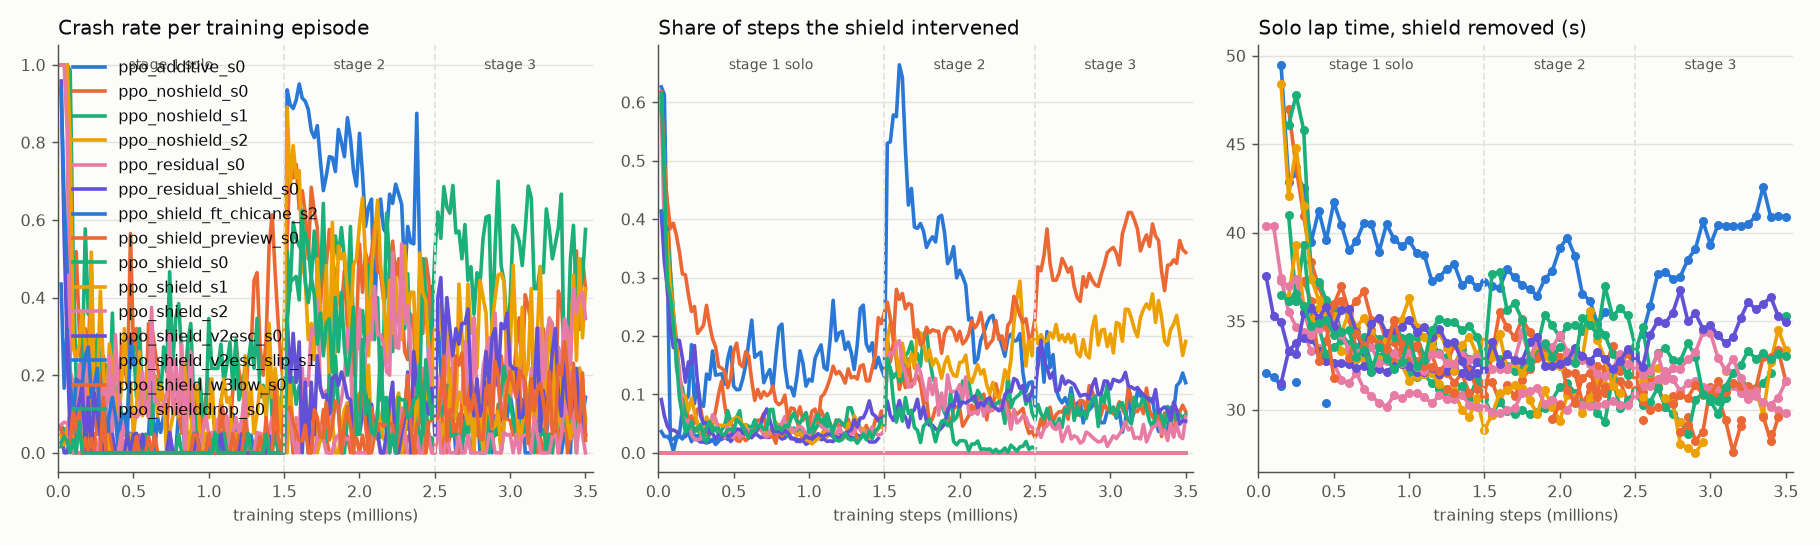
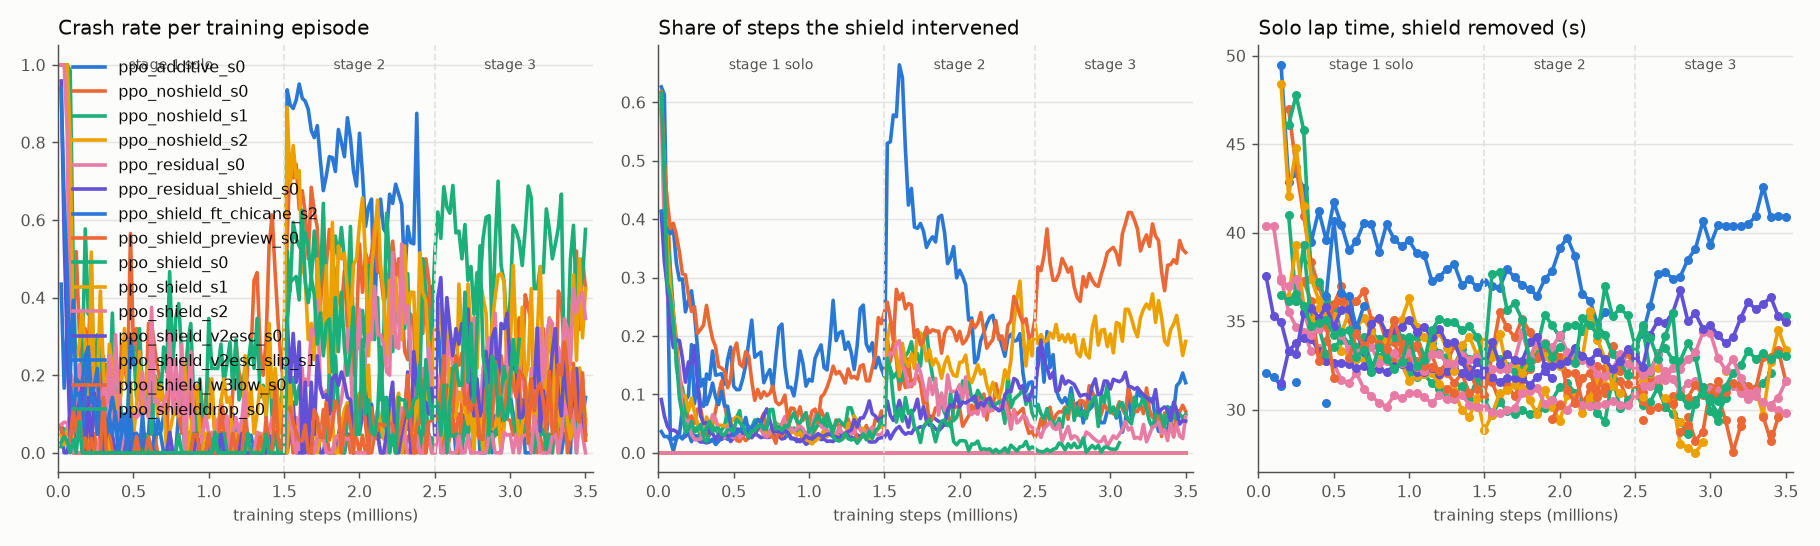
Auto-sync training progress (12:19)

diff --git a/RUNS.md b/RUNS.md
@@ -11,16 +11,16 @@ Auto-generated by `python -m scripts.update_registry` (2026-11-05 12:18). Each r
 | `ppo_noshield_s1` | Ablation (no shield), seed 1 | shield=off seed=1 tyre=saturated | `b3af79a` | finished | 3.50M | 26% / 41% / 52% | 200k | 28.60 / 35.28 | 0% | stage1, stage2, stage3 |
 | `ppo_noshield_s2` | Ablation (no shield), seed 2 | shield=off seed=2 tyre=saturated | `65f27b5` | finished | 3.50M | 19% / 44% / 30% | 150k | 27.56 / 33.36 | 0% | stage1, stage2, stage3 |
 | `ppo_residual_s0` | ResRace/RaceMOP-style: PPO residual on top of PID+APF (APF shapes every command) | shield=off residual seed=0 tyre=saturated | `5549760` | finished | 3.50M | 14% / 22% / 22% | 50k | 29.80 / 29.80 | 0% | stage1, stage2, stage3 |
-| `ppo_residual_shield_s0` | E23: ResRace-style residual policy trained with the final shield (escape, v2 sim) | shield=cond_fb_grip_esc residual seed=0 tyre=saturated_v2 | `c8b4246` | running | 1.94M | 0% / 3% / - | 50k | 31.40 / 31.76 | 5% | stage1 |
+| `ppo_residual_shield_s0` | E23: ResRace-style residual policy trained with the final shield (escape, v2 sim) | shield=cond_fb_grip_esc residual seed=0 tyre=saturated_v2 | `c8b4246` | running | 1.96M | 0% / 3% / - | 50k | 31.40 / 31.76 | 5% | stage1 |
 | `ppo_shield_ft_chicane_s2` | E22: seed-2 shielded policy fine-tuned 500k steps, half the episodes starting before the chicane | shield=cond_fb_grip_esc seed=2 tyre=saturated_v2 | `e1f1aac` | running | 0.50M | 17% | 50k | 30.36 / 30.36 | 3% | - |
 | `ppo_shield_preview_s0` | Timidity test: ours with 10 centerline curvatures (1-20 m ahead) in the observation | shield=cond_fb_grip seed=0 tyre=saturated | `98cfd56` | finished | 3.50M | 2% / 4% / 7% | 250k | 30.00 / 31.60 | 6% | stage1, stage2, stage3 |
 | `ppo_shield_s0` | Ours: PPO + action-conditioned APF shield with fallback (grip reach), all stages | shield=cond_fb_grip seed=0 tyre=saturated | `afc94c8 +dirty` | finished | 3.50M | 1% / 9% / 7% | 200k | 30.48 / 33.04 | 6% | stage1, stage2, stage3 |
 | `ppo_shield_s1` | Ours, seed 1 | shield=cond_fb_grip seed=1 tyre=saturated | `0152028` | finished | 3.50M | 1% / 9% / 11% | 200k | 29.12 / 29.12 | 20% | stage1, stage2, stage3 |
 | `ppo_shield_s2` | Ours, seed 2 | shield=cond_fb_grip seed=2 tyre=saturated | `41be473` | finished | 3.50M | 1% / 3% / 3% | 150k | 30.28 / 31.60 | 4% | stage1, stage2, stage3 |
 | `ppo_shield_v2esc_s0` | Ours, improved: shield with deadlock escape, trained on the post-spin-fixed simulator | shield=cond_fb_grip_esc seed=0 tyre=saturated_v2 | `1bb44f8` | finished | 3.50M | 4% / 12% / 21% | 150k | 31.48 / 34.96 | 6% | stage1, stage2, stage3 |
-| `ppo_shield_v2esc_slip_s1` | Final shield + slip penalty (w6 = 1), seed 1 (the seed that learned to slide) | shield=cond_fb_grip_esc seed=1 tyre=saturated_v2 | `7cd44cb` | running | 0.68M | 14% / - / - | 450k | 34.60 / 34.60 | 5% | - |
+| `ppo_shield_v2esc_slip_s1` | Final shield + slip penalty (w6 = 1), seed 1 (the seed that learned to slide) | shield=cond_fb_grip_esc seed=1 tyre=saturated_v2 | `7cd44cb` | running | 0.70M | 13% / - / - | 450k | 34.60 / 35.88 | 5% | - |
 | `ppo_shield_w3low_s0` | Timidity test: ours with intervention penalty w3 = 0.02 (default 0.1) | shield=cond_fb_grip seed=0 tyre=saturated | `8eb284b` | finished | 3.50M | 2% / 7% / 15% | 450k | 28.24 / 29.56 | 34% | stage1, stage2, stage3 |
-| `ppo_shielddrop_s0` | Shield dropout: shield on in 100% / 50% / 25% of episodes in stages 1/2/3 (does the policy learn safety itself?) | shield=cond_fb_grip seed=0 tyre=saturated | `0d04e46 +dirty` | running | 3.04M | 0% / 23% / 19% | 150k | 29.36 / 29.36 | 1% | stage1, stage2 |
+| `ppo_shielddrop_s0` | Shield dropout: shield on in 100% / 50% / 25% of episodes in stages 1/2/3 (does the policy learn safety itself?) | shield=cond_fb_grip seed=0 tyre=saturated | `0d04e46 +dirty` | running | 3.06M | 0% / 23% / 20% | 150k | 29.36 / 29.36 | 1% | stage1, stage2 |
 
 ### Commands and notes
 

diff --git a/results/training_efficiency.md b/results/training_efficiency.md
@@ -9,13 +9,13 @@ Solo laps every 50k steps, standing start. 'fast' = under 34 s (best classical s
 | `ppo_noshield_s1` | off | 3500k | 200k | 600k | 1080 | 2769 (5517) | 28.60 |
 | `ppo_noshield_s2` | off | 3500k | 150k | 550k | 969 | 2295 (5267) | 27.56 |
 | `ppo_residual_s0` | off residual | 3500k | 50k | 350k | 259 | 995 (4141) | 29.80 |
-| `ppo_residual_shield_s0` | cond_fb_grip_esc residual tyre=saturated_v2 | 1460k | 50k | 200k | 1 | 3 (1459) | 32.00 |
+| `ppo_residual_shield_s0` | cond_fb_grip_esc residual tyre=saturated_v2 | 1960k | 50k | 200k | 1 | 16 (1965) | 31.40 |
 | `ppo_shield_ft_chicane_s2` | cond_fb_grip_esc tyre=saturated_v2 | 500k | 50k | 50k | 14 | 94 (547) | 30.36 |
 | `ppo_shield_preview_s0` | cond_fb_grip | 3500k | 250k | 400k | 15 | 174 (4103) | 30.00 |
 | `ppo_shield_s0` | cond_fb_grip | 3500k | 200k | 450k | 8 | 234 (4158) | 30.48 |
 | `ppo_shield_s1` | cond_fb_grip | 3500k | 200k | 800k | 9 | 313 (4572) | 29.12 |
 | `ppo_shield_s2` | cond_fb_grip | 3500k | 150k | 600k | 11 | 96 (3965) | 30.28 |
 | `ppo_shield_v2esc_s0` | cond_fb_grip_esc tyre=saturated_v2 | 3500k | 150k | 150k | 76 | 497 (3821) | 31.48 |
-| `ppo_shield_v2esc_slip_s1` | cond_fb_grip_esc tyre=saturated_v2 | 60k | - | - | - | 86 (119) | - |
+| `ppo_shield_v2esc_slip_s1` | cond_fb_grip_esc tyre=saturated_v2 | 700k | 450k | - | 140 | 148 (820) | 34.60 |
 | `ppo_shield_w3low_s0` | cond_fb_grip | 3500k | 450k | 500k | 24 | 405 (4981) | 28.24 |
-| `ppo_shielddrop_s0` | cond_fb_grip drop=[1.0, 0.5, 0.25] | 2500k | 150k | 650k | 8 | 329 (2898) | 32.12 |
+| `ppo_shielddrop_s0` | cond_fb_grip drop=[1.0, 0.5, 0.25] | 3060k | 150k | 650k | 8 | 462 (3538) | 29.36 |
